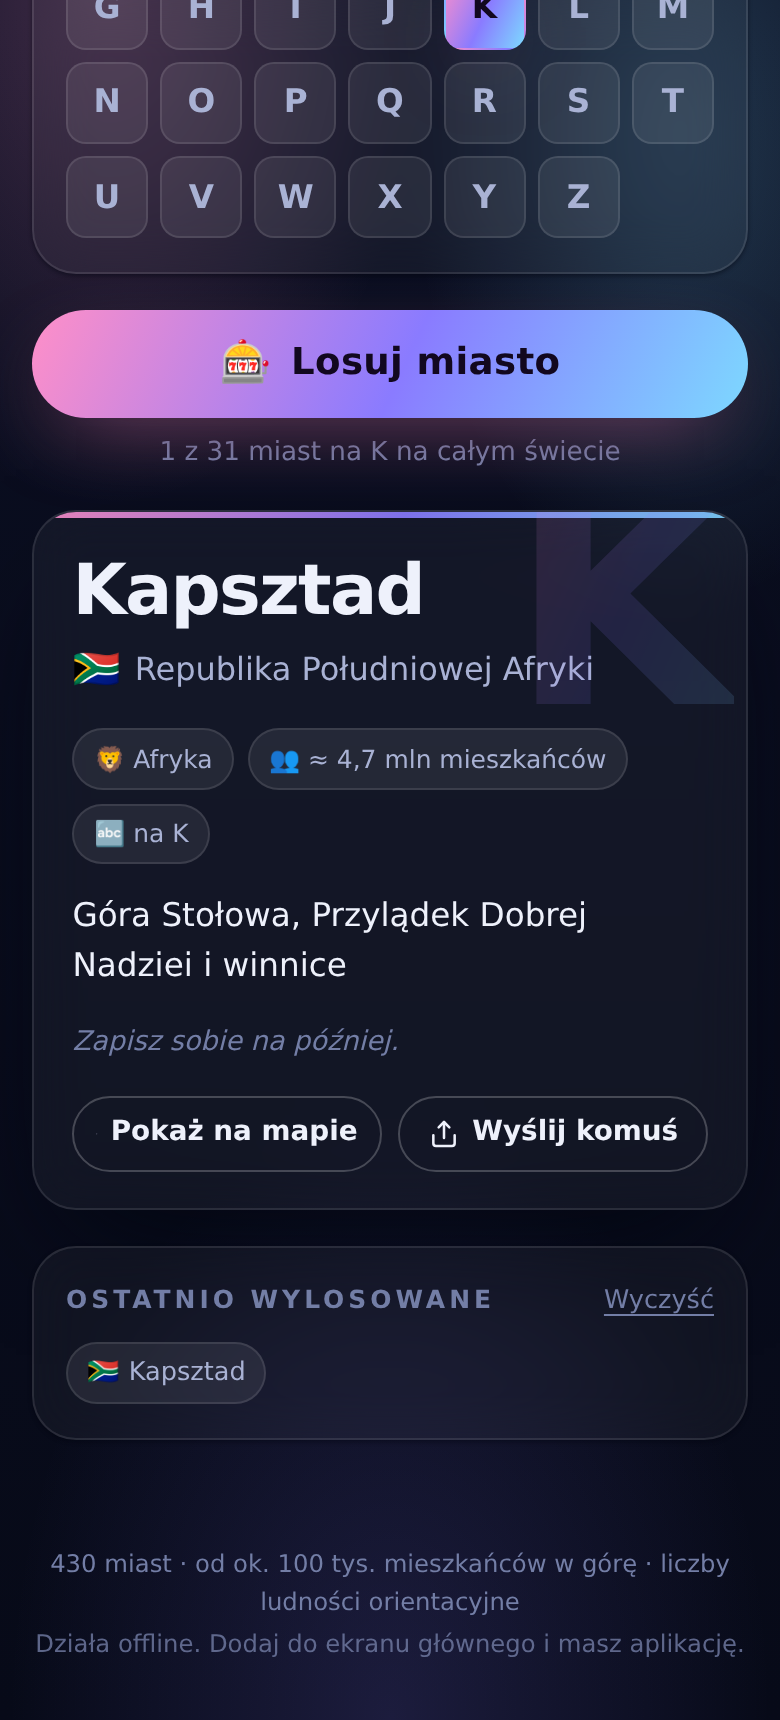
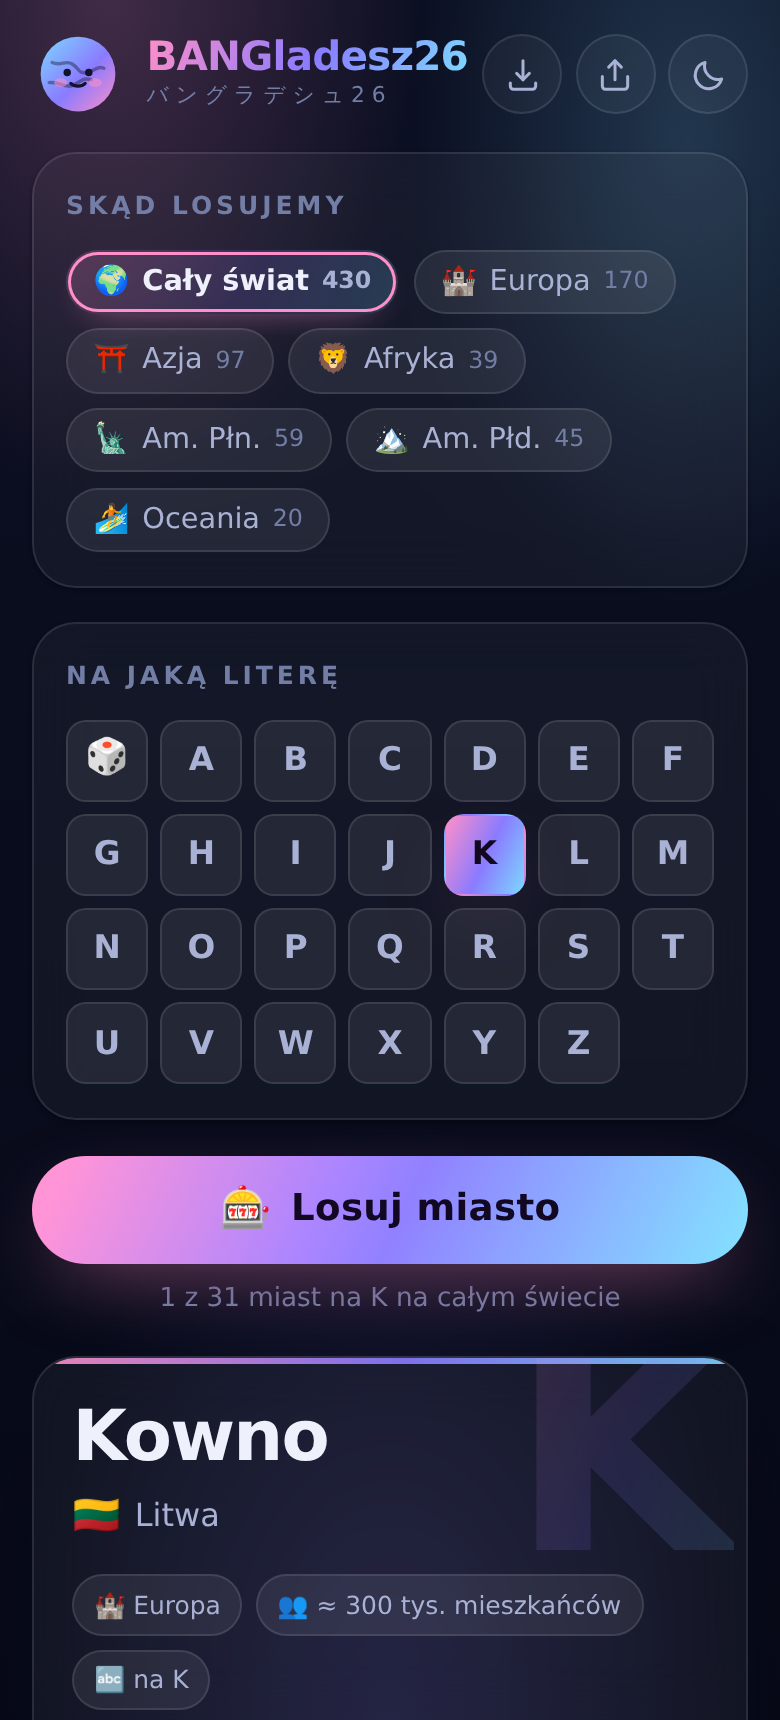
Zmiana nazwy na BANGladesz26 i przeprowadzka do bangladesz26/
Nazwa ekipy zamiast roboczej: katalog, tytuł, manifest, klucze w pamięci
przeglądarki, sklejka jednoplikowa i workflow idą pod nowe imię.
Katakana w nagłówku też — バングラデシュ26.

Adresy og: prowadzą teraz do podstrony /bangladesz26/, bo tam aplikacja
stanie obok Przeglądu News. Workflow aplikacji przestaje publikować stronę
(zrobi to wydanie Przeglądu) i zostaje przy kontroli danych oraz odkładaniu
gotowego pliku do wysyłki.

Claude-Session: https://claude.ai/code/session_01RekwuNMxk4ivNJQKeD4wQK

diff --git a/bangladesz26/index.html b/bangladesz26/index.html
@@ -3,19 +3,19 @@
 <head>
 <meta charset="utf-8">
 <meta name="viewport" content="width=device-width, initial-scale=1, viewport-fit=cover">
-<title>Gacha Miast</title>
+<title>BANGladesz26</title>
 <meta name="description" content="Losownik miast świata na daną literę — tylko takie, do których warto pojechać. Wybierz literę, wybierz kontynent, kliknij.">
 <meta name="theme-color" content="#0B0F22">
 <meta name="color-scheme" content="dark light">
 <!-- Podgląd linku w komunikatorach. Adres musi być bezwzględny; przy zmianie
      hostingu trzeba go tu podmienić. -->
 <meta property="og:type" content="website">
-<meta property="og:site_name" content="Gacha Miast">
+<meta property="og:site_name" content="BANGladesz26">
 <meta property="og:locale" content="pl_PL">
-<meta property="og:url" content="https://olaf169-lang.github.io/Claude-mobile/">
-<meta property="og:title" content="Gacha Miast — wylosuj miasto na daną literę">
+<meta property="og:url" content="https://olaf169-lang.github.io/Claude-mobile/bangladesz26/">
+<meta property="og:title" content="BANGladesz26 — wylosuj miasto na daną literę">
 <meta property="og:description" content="430 miast świata, do których naprawdę warto pojechać. Wybierasz literę i kontynent, reszta to jedno kliknięcie.">
-<meta property="og:image" content="https://olaf169-lang.github.io/Claude-mobile/icons/podglad.png">
+<meta property="og:image" content="https://olaf169-lang.github.io/Claude-mobile/bangladesz26/icons/podglad.png">
 <meta property="og:image:width" content="1200">
 <meta property="og:image:height" content="630">
 <meta name="twitter:card" content="summary_large_image">
@@ -23,7 +23,7 @@
 <link rel="icon" href="icons/favicon.png" type="image/png">
 <link rel="apple-touch-icon" href="icons/icon-192.png">
 <meta name="apple-mobile-web-app-capable" content="yes">
-<meta name="apple-mobile-web-app-title" content="Gacha Miast">
+<meta name="apple-mobile-web-app-title" content="BANGladesz26">
 <link rel="preconnect" href="https://fonts.googleapis.com">
 <link rel="preconnect" href="https://fonts.gstatic.com" crossorigin>
 <link rel="stylesheet"
@@ -32,7 +32,7 @@
 <script>
   // Motyw ustawiamy przed pierwszym malowaniem, żeby nie mrugało bielą.
   (() => {
-    const zapisany = localStorage.getItem('gm:motyw');
+    const zapisany = localStorage.getItem('b26:motyw');
     if (zapisany) document.documentElement.dataset.theme = zapisany;
     else if (matchMedia('(prefers-color-scheme: light)').matches) document.documentElement.dataset.theme = 'jasny';
   })();
@@ -63,8 +63,8 @@
       <path class="usta" d="M27 38.5c2.6 2.6 7.4 2.6 10 0"/>
     </svg>
     <div class="tytul">
-      <h1>Gacha Miast</h1>
-      <p class="kana" aria-hidden="true">シティ・ガチャ</p>
+      <h1>BANGladesz26</h1>
+      <p class="kana" aria-hidden="true">バングラデシュ26</p>
     </div>
   </div>
   <div class="narzedzia">

diff --git a/bangladesz26/app.js b/bangladesz26/app.js
@@ -1,10 +1,10 @@
 /* ==========================================================================
-   Gacha Miast — logika losowania
+   BANGladesz26 — logika losowania
    Stan mieści się w kilku polach: wybrane kontynenty, wybrana litera i pamięć
    tego, co już padło. Reszta to rysowanie.
    ========================================================================== */
 
-const KLUCZ = 'gm:';
+const KLUCZ = 'b26:';
 const LOSOWA = '*';                 // „dowolna litera" — kostka w siatce
 const HISTORIA_MAX = 14;
 
@@ -288,7 +288,7 @@ function pokazMiasto(m) {
   el.wynik.classList.add('wchodzi');
 
   document.getElementById('wyslij-miasto').addEventListener('click', () => {
-    udostepnij(`${m.nazwa} (${m.kraj}) — ${m.opis}`, 'Wylosowane w Gacha Miast');
+    udostepnij(`${m.nazwa} (${m.kraj}) — ${m.opis}`, 'Wylosowane w BANGladesz26');
   });
 }
 
@@ -361,7 +361,7 @@ async function udostepnij(tekst, tytul) {
 }
 
 el.udostepnij.addEventListener('click', () => {
-  udostepnij('Gacha Miast — losownik miast, do których warto pojechać', 'Gacha Miast');
+  udostepnij('BANGladesz26 — losownik miast, do których warto pojechać', 'BANGladesz26');
 });
 
 el.motyw.addEventListener('click', () => {

diff --git a/bangladesz26/styles.css b/bangladesz26/styles.css
@@ -1,5 +1,5 @@
 /* ==========================================================================
-   Gacha Miast — szata graficzna
+   BANGladesz26 — szata graficzna
    Noc nad mapą świata: granatowe tło, sakura i cyjan jako akcenty.
    Dwa motywy na zmiennych CSS, jeden przełącznik w pasku.
    ========================================================================== */
@@ -134,7 +134,7 @@ main {
 .tytul h1 {
   margin: 0;
   font-family: var(--display);
-  font-size: clamp(1.3rem, 5.8vw, 1.75rem);
+  font-size: clamp(1.12rem, 5.2vw, 1.6rem);
   font-weight: 800;
   letter-spacing: -.02em;
   line-height: 1.05;

diff --git a/bangladesz26/sw.js b/bangladesz26/sw.js
@@ -1,8 +1,8 @@
-/* Service worker Gacha Miast: aplikacja ma działać bez sieci.
+/* Service worker BANGladesz26: aplikacja ma działać bez sieci.
    Cała zawartość jest statyczna, więc trzymamy prostą pamięć powłoki
    i podbijamy WERSJA przy każdej zmianie plików. */
 
-const WERSJA = 'gm-v1';
+const WERSJA = 'b26-v1';
 
 const POWLOKA = [
   './',

diff --git a/bangladesz26/dane.js b/bangladesz26/dane.js
@@ -1,5 +1,5 @@
 /* ==========================================================================
-   Gacha Miast — katalog miast
+   BANGladesz26 — katalog miast
    Jeden wiersz to jedno miasto:
      [ nazwa, kraj, flaga, kontynent, ludność w tysiącach, po co tam jechać ]
 

diff --git a/bangladesz26/narzedzia/ikony.py b/bangladesz26/narzedzia/ikony.py
@@ -1,9 +1,9 @@
 #!/usr/bin/env python3
-"""Rysuje komplet ikon Gacha Miast — maskotkę-globus w gradiencie aplikacji.
+"""Rysuje komplet ikon BANGladesz26 — maskotkę-globus w gradiencie aplikacji.
 
     python3 narzedzia/ikony.py
 
-Zapisuje do miasta/icons/: favicon.png, icon-192.png, icon-512.png,
+Zapisuje do bangladesz26/icons/: favicon.png, icon-192.png, icon-512.png,
 maskable-192.png, maskable-512.png oraz podglad.png (karta linku 1200×630).
 Rysujemy w czterokrotnym powiększeniu i zmniejszamy — to najtańszy antyaliasing.
 """
@@ -143,7 +143,7 @@ def podglad() -> Image.Image:
             font = czcionka(rozmiar)
         rysuj.text((lewy, y), tekst, font=font, fill=kolor)
 
-    linia("Gacha Miast", 208, 96, (238, 241, 251, 255))
+    linia("BANGladesz26", 208, 96, (238, 241, 251, 255))
     linia("Wylosuj miasto, do którego warto pojechać", 332, 38, (169, 178, 212, 255))
     linia("430 miast  ·  6 kontynentów  ·  litera do wyboru", 396, 30, (125, 216, 255, 255))
     return plotno.convert("RGB")

diff --git a/bangladesz26/README.md b/bangladesz26/README.md
@@ -1,4 +1,4 @@
-# Gacha Miast 🎰🌍
+# BANGladesz26 🎰🌍
 
 Losownik miast świata na zadaną literę. Wybierasz literę (albo zostawiasz kostkę),
 wybierasz kontynent, klikasz jeden guzik — wypada miasto, do którego **naprawdę warto pojechać**.
@@ -58,7 +58,7 @@ Dostajesz ikonę, pełny ekran bez paska przeglądarki i działanie offline — 
 **3. Jeden plik HTML (bez hostingu).** 
 
 ```bash
-node narzedzia/jeden-plik.mjs      # → dist/gacha-miast.html
+node narzedzia/jeden-plik.mjs      # → dist/bangladesz26.html
 ```
 
 Cała aplikacja — style, dane, kod, ikony — ląduje w jednym pliku (~125 kB). Można go wysłać
@@ -69,7 +69,7 @@ WhatsAppem czy mailem i otworzyć wprost z telefonu, bez internetu i bez żadneg
 To zwykła strona statyczna — żadnej budowy, żadnych zależności:
 
 ```bash
-cd miasta
+cd bangladesz26
 python3 -m http.server 8080      # → http://localhost:8080
 ```
 
@@ -78,21 +78,20 @@ po HTTP — do sprawdzenia trybu offline użyj serwera albo sklejki jednoplikowe
 
 ## Publikacja na GitHub Pages
 
-Workflow `.github/workflows/miasta.yml`:
+Aplikacja stoi pod **https://olaf169-lang.github.io/Claude-mobile/bangladesz26/** —
+jako podstrona tego samego adresu, pod którym działa Przegląd News. Pages serwuje jedną stronę
+na repozytorium, więc obie aplikacje jadą jednym wydaniem:
 
-- **przy każdym pushu** do `miasta/**` sprawdza katalog miast (`narzedzia/sprawdz-dane.mjs`);
-- **publikuje tylko na żądanie** — *Actions → Gacha Miast — strona → Run workflow*.
+- `web/` Przeglądu ląduje w korzeniu strony,
+- katalog `bangladesz26/` jest do niego dokładany przez workflow `przeglad.yml`
+  (krok *Dołóż BANGladesz26 do strony*) i trafia pod `/bangladesz26/`.
 
-Publikacja jest ręczna celowo: GitHub Pages serwuje **jedną stronę na repozytorium**, a pod tym
-adresem stoi już Przegląd News. Ręczne uruchomienie to świadoma decyzja, co ma być pod adresem
-`https://olaf169-lang.github.io/Claude-mobile/`, a nie efekt uboczny pushu.
+Publikacja rusza sama przy każdym pushu zmieniającym `web/**` lub `bangladesz26/**`,
+a także przy każdym porannym wydaniu Przeglądu. Workflow `bangladesz26.yml` nic nie publikuje —
+sprawdza katalog miast i odkłada w artefaktach gotowy plik do wysyłki.
 
-Chcesz obie aplikacje naraz? Trzy opcje, od najprostszej:
-
-1. wysyłaj kolegom **jeden plik** z `dist/` — nie potrzebuje w ogóle hostingu;
-2. postaw Gacha Miast w **osobnym repozytorium** (wystarczy skopiować katalog `miasta/`);
-3. albo dołóż katalog do artefaktu Przeglądu — wtedy aplikacja stanie pod `…/miasta/`.
-   Adres w znacznikach `og:` w `index.html` trzeba wtedy podmienić, bo jest bezwzględny.
+Przenosisz aplikację gdzie indziej? Adres w znacznikach `og:` w `index.html` jest bezwzględny —
+trzeba go tam podmienić, inaczej podgląd linku w komunikatorze pokaże starą kartę.
 
 ## Dopisanie miasta
 
@@ -120,7 +119,7 @@ Ten sam skrypt chodzi w GitHub Actions.
 ## Struktura
 
 ```
-miasta/
+bangladesz26/
   index.html          szkielet ekranu
   styles.css          motyw ciemny i jasny na zmiennych CSS
   app.js              losowanie, pamięć puli, historia, udostępnianie
